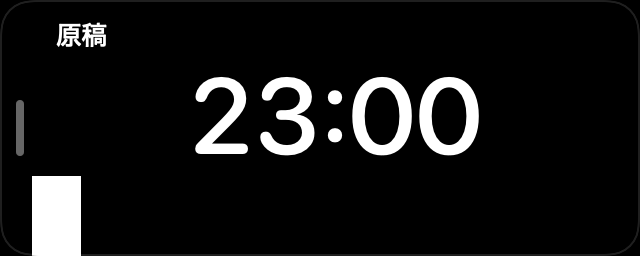
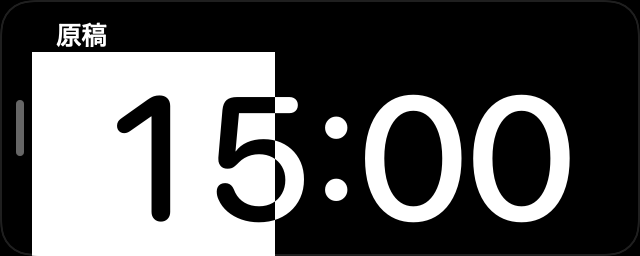
Mac PiP: stack progress fill behind remaining digits
Use one rideProgressInstrument ZStack for normal expanded ride, nudge
bands, and the compact bottom row so the bar fills the area height behind
monospaced digits. Normal ride instrument uses full height below the 14pt
title. Refresh pip-reestimate screenshots; normal ride shows ~40% progress.

diff --git a/TodoTrainCompanion/CompanionRideOverlayView.swift b/TodoTrainCompanion/CompanionRideOverlayView.swift
@@ -62,8 +62,8 @@ struct CompanionRideOverlayView: View {
         CGFloat(RideOverlayGeometry.cardSize.height) - reestimateHeadingHeight - bottomBandHeight
     private static let pauseInstrumentHeight =
         CGFloat(RideOverlayGeometry.cardSize.height) - pauseHeadingHeight - bottomBandHeight
-    private static let classicExpandedDigitHeight =
-        CGFloat(RideOverlayGeometry.cardSize.height) - classicTitleBandHeight - bottomBandHeight
+    private static let classicExpandedInstrumentHeight =
+        CGFloat(RideOverlayGeometry.cardSize.height) - classicTitleBandHeight
 
     private enum PipColumnLayout: Equatable {
         case gap
@@ -86,7 +86,7 @@ struct CompanionRideOverlayView: View {
     private var rideDigitAreaHeight: CGFloat {
         switch pipColumnLayout {
         case .classicExpanded:
-            Self.classicExpandedDigitHeight
+            Self.classicExpandedInstrumentHeight
         case .classicCompact:
             Self.bottomBandHeight
         case .reestimate:
@@ -335,16 +335,8 @@ struct CompanionRideOverlayView: View {
         VStack(alignment: .leading, spacing: 0) {
             classicRideTitle
             classicFailureLine
-            VStack(spacing: 0) {
-                pipDigitLabel(
-                    presentation.remainingLabel,
-                    color: RideOverlayPalette.onTrack,
-                    areaHeight: rideDigitAreaHeight
-                )
-                .frame(height: rideDigitAreaHeight)
-                progressFillBand(height: Self.bottomBandHeight)
-            }
-            .frame(maxWidth: .infinity, maxHeight: .infinity, alignment: .bottom)
+            rideProgressInstrument(digitAreaHeight: rideDigitAreaHeight)
+                .frame(maxWidth: .infinity, maxHeight: .infinity)
         }
         .frame(maxWidth: .infinity, maxHeight: .infinity, alignment: .topLeading)
     }
@@ -615,7 +607,7 @@ struct CompanionRideOverlayView: View {
                 )
                 .padding(.horizontal, 8)
             } else {
-                progressRow(digitAreaHeight: areaHeight)
+                rideProgressInstrument(digitAreaHeight: areaHeight)
             }
         }
         .accessibilityElement(children: .ignore)
@@ -738,7 +730,7 @@ struct CompanionRideOverlayView: View {
             if model.reestimateUndoUntil != nil {
                 undoRow
             } else {
-                progressRow(digitAreaHeight: rideDigitAreaHeight)
+                rideProgressInstrument(digitAreaHeight: rideDigitAreaHeight)
                     .opacity(showsCabinActions || showsAction ? 0 : 1)
                 if showsCabinActions {
                     cabinActionRow
@@ -776,7 +768,7 @@ struct CompanionRideOverlayView: View {
         )
     }
 
-    private func progressFillBand(height: CGFloat) -> some View {
+    private func rideProgressInstrument(digitAreaHeight: CGFloat) -> some View {
         let fillWidth = progressFillWidth
         return ZStack(alignment: .leading) {
             Color.black
@@ -785,23 +777,7 @@ struct CompanionRideOverlayView: View {
                     .frame(width: fillWidth)
                 Spacer(minLength: 0)
             }
-            occupancyProgressMarks(width: Self.contentColumnWidth, height: height)
-        }
-        .frame(maxWidth: .infinity)
-        .frame(height: height)
-        .clipped()
-    }
-
-    private func progressRow(digitAreaHeight: CGFloat) -> some View {
-        let fillWidth = progressFillWidth
-        return ZStack(alignment: .leading) {
-            Color.black
-            HStack(spacing: 0) {
-                RideOverlayPalette.fill(for: presentation)
-                    .frame(width: fillWidth)
-                Spacer(minLength: 0)
-            }
-            occupancyProgressMarks(width: Self.contentColumnWidth, height: Self.bottomBandHeight)
+            occupancyProgressMarks(width: Self.contentColumnWidth, height: digitAreaHeight)
             remainingDigits(RideOverlayPalette.onTrack, areaHeight: digitAreaHeight)
             remainingDigits(RideOverlayPalette.onFill(for: presentation), areaHeight: digitAreaHeight)
                 .mask {
@@ -812,7 +788,7 @@ struct CompanionRideOverlayView: View {
                 }
         }
         .frame(maxWidth: .infinity)
-        .frame(height: Self.bottomBandHeight)
+        .frame(height: digitAreaHeight)
         .clipped()
     }
 
@@ -1154,7 +1130,8 @@ func rideSnap(
     title: String,
     nextTitle: String? = nil,
     startsAt: Int? = nil,
-    endsAt: Int? = nil
+    endsAt: Int? = nil,
+    now: Int = 1_768_000_120
 ) -> RideOverlayPresentation {
     let snap = SnapPlaintext(
         rev: 1,
@@ -1177,7 +1154,7 @@ func rideSnap(
         MenuBarInput(
             pairing: .paired,
             snap: snap,
-            now: 1_768_000_120,
+            now: now,
             cabinEnabledLocal: false
         )
     )

diff --git a/TodoTrainCompanionTests/MacPipReestimateTests.swift b/TodoTrainCompanionTests/MacPipReestimateTests.swift
@@ -140,7 +140,7 @@ struct MacPipReestimateTests {
         let scale: CGFloat = 2
         let card = RideOverlayGeometry.cardSize
         let shots: [(String, AnyView)] = [
-            ("pip-normal-ride", AnyView(ridePreview(rideSnap(title: "原稿")))),
+            ("pip-normal-ride", AnyView(ridePreview(rideSnap(title: "原稿", now: 1_768_000_600)))),
             ("pip-band-answers", AnyView(rideReestimatePreview(.answers))),
             ("pip-band-progress", AnyView(rideReestimatePreview(.progress))),
             ("pip-band-declare", AnyView(rideReestimatePreview(.declare, progress: 0.5))),
